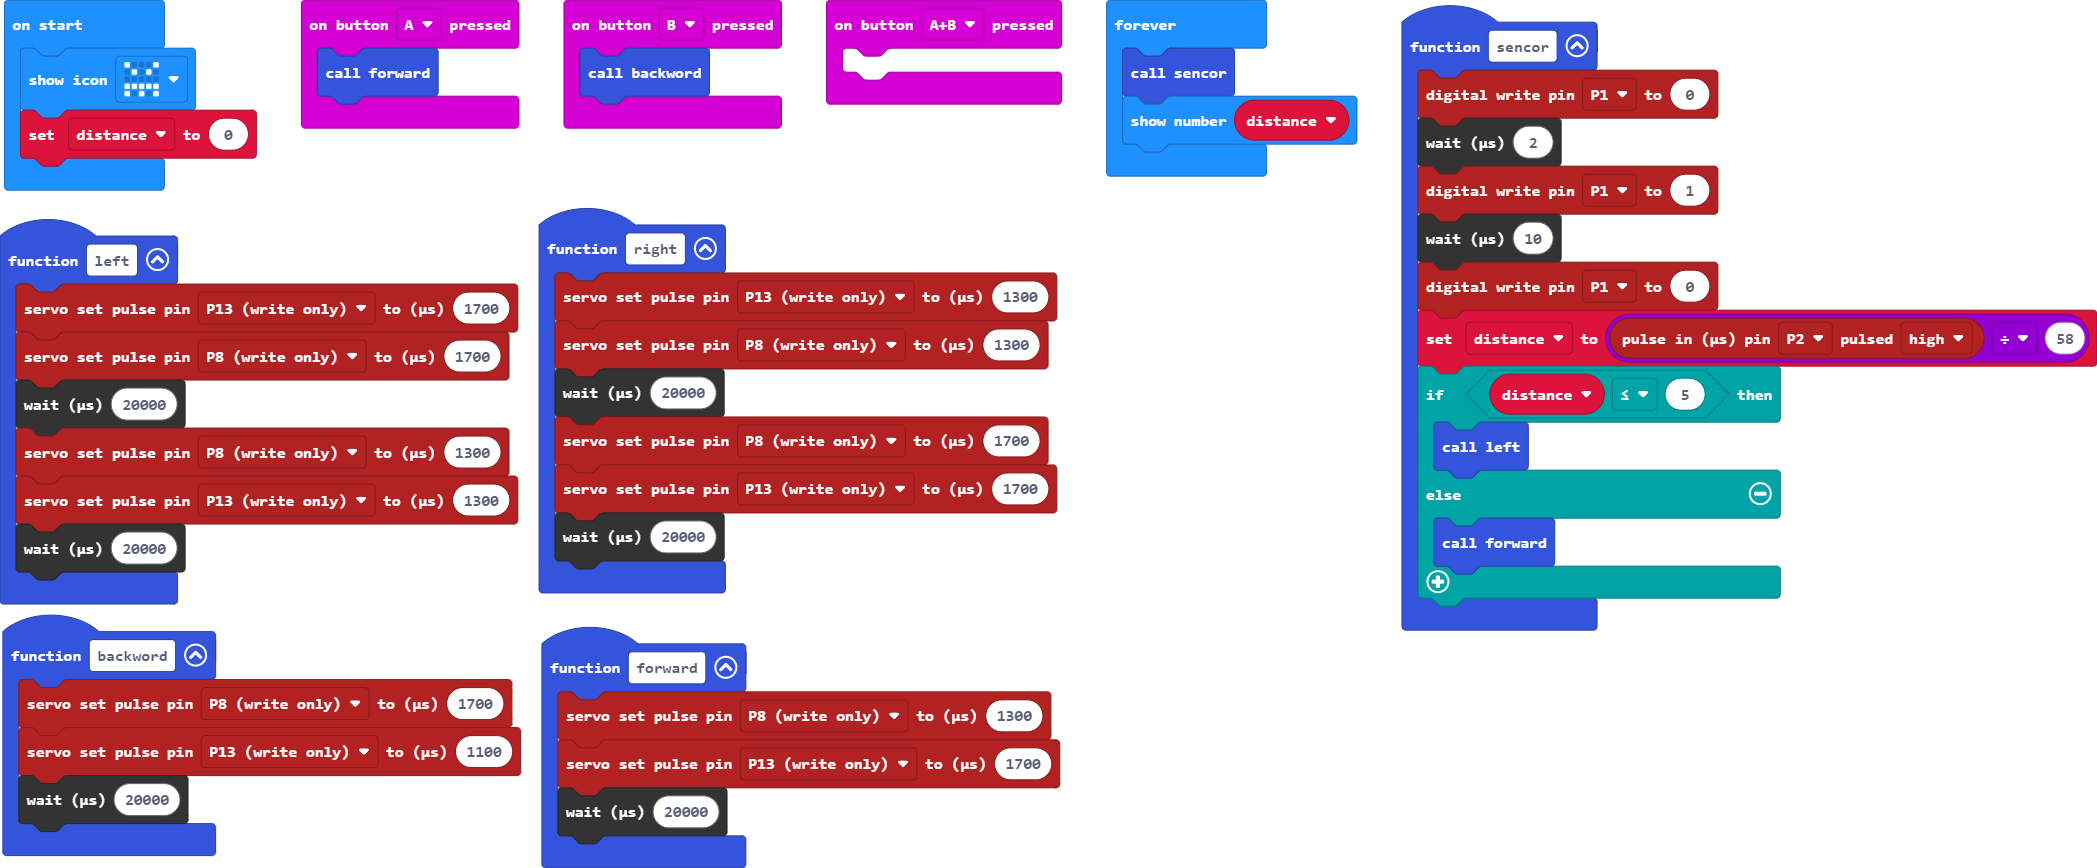
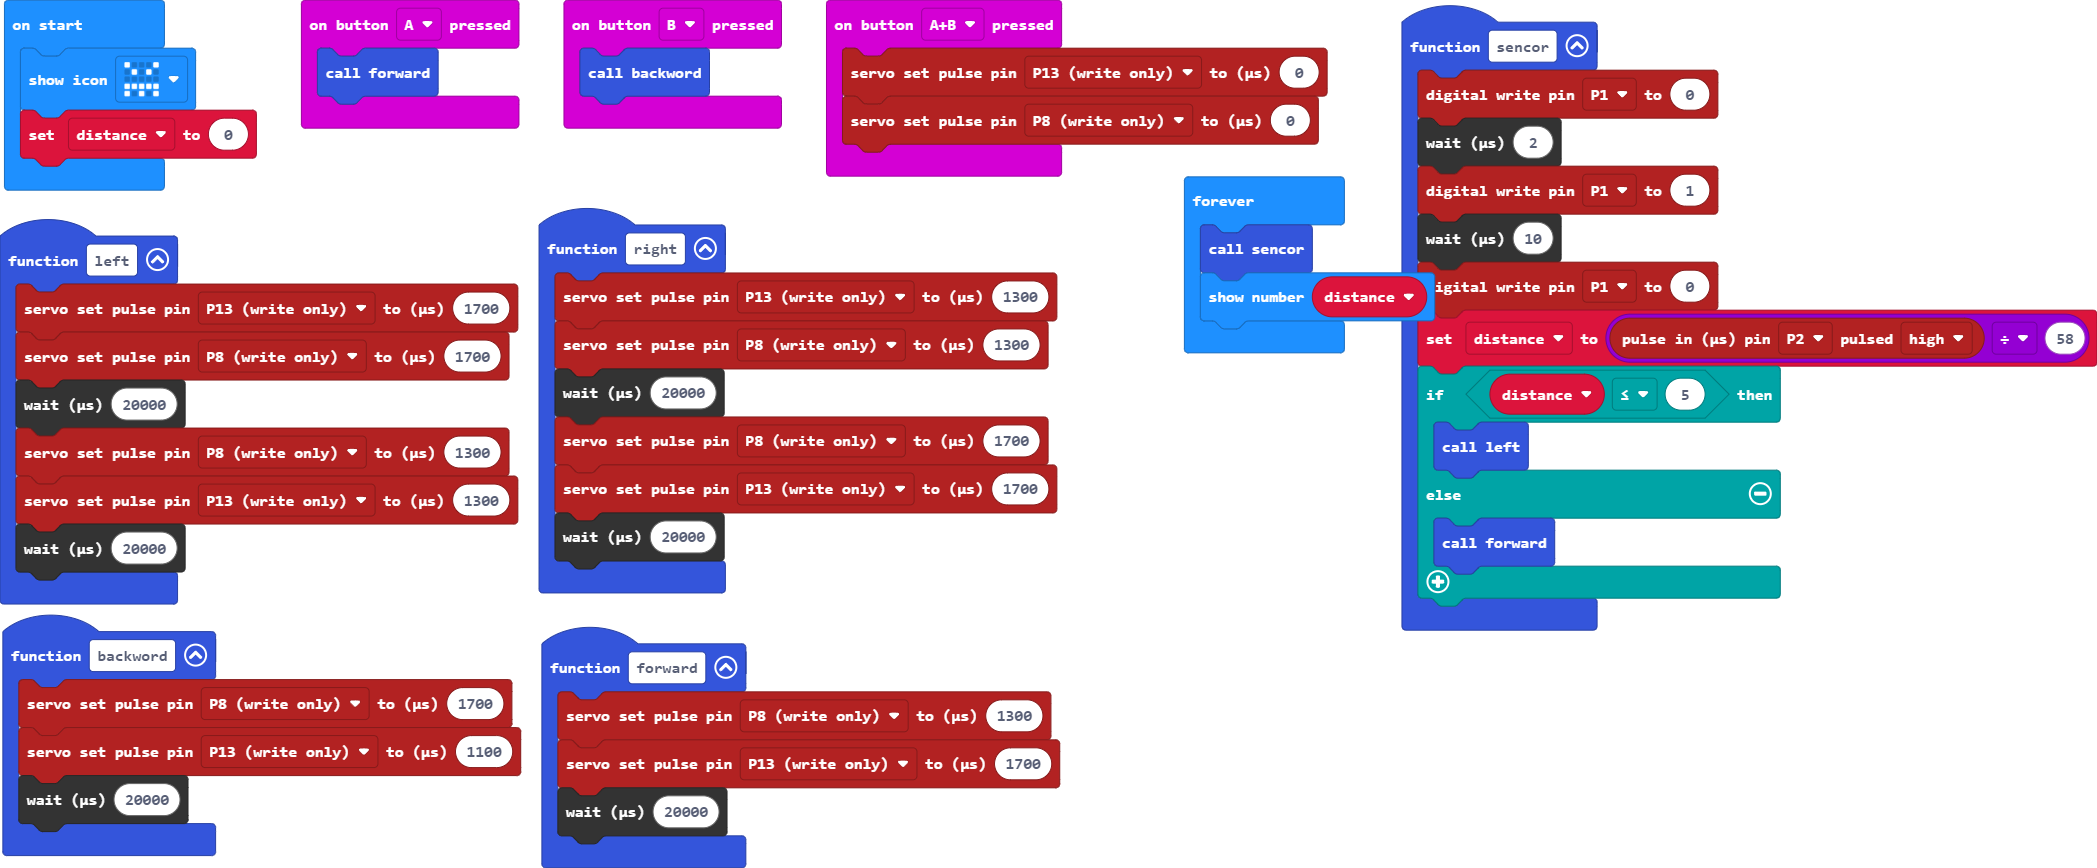
Update main.blocks, main.ts

Changed region(s): [[0.372, 0.0, 0.6819, 0.4355]]

diff --git a/main.ts b/main.ts
@@ -36,7 +36,8 @@ function sencor () {
     }
 }
 input.onButtonPressed(Button.AB, function () {
-	
+    pins.servoSetPulse(AnalogPin.P13, 0)
+    pins.servoSetPulse(AnalogPin.P8, 0)
 })
 input.onButtonPressed(Button.B, function () {
     backword()
